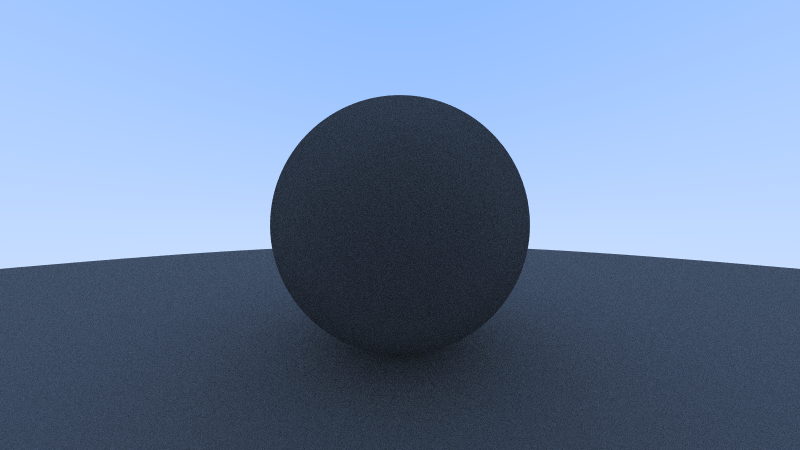
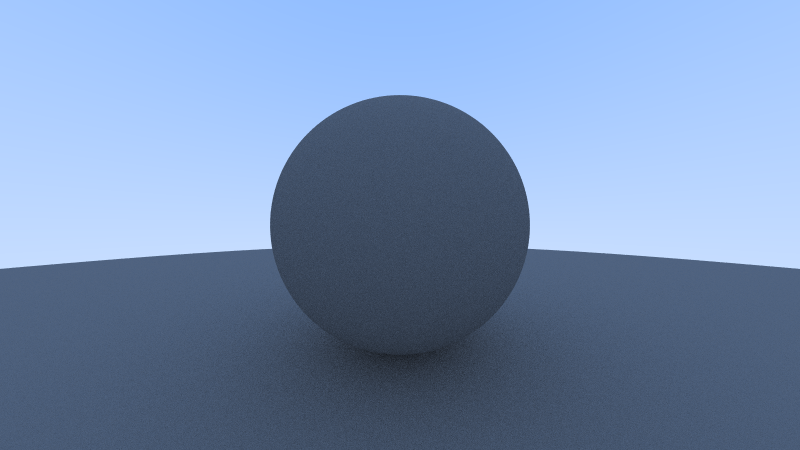
removing shadow acne

diff --git a/src/ray.rs b/src/ray.rs
@@ -62,10 +62,7 @@ impl Camera {
                 (0..self.image_width).into_par_iter().map(move |i| {
                     let color = (0..self.samples_pp)
                         .into_par_iter()
-                        .map(|_| {
-                            let r = self.get_ray(i, j);
-                            self.ray_color(&r, self.max_bounces, world)
-                        })
+                        .map(|_| self.get_ray(i, j).color(self.max_bounces, world))
                         .reduce(Color::default, |a, b| a + b);
 
                     (color * self.pixel_sample_scale).ppm_string()
@@ -87,22 +84,6 @@ impl Camera {
 
         Ray::new(self.center, sample - self.center)
     }
-
-    fn ray_color(&self, r: &Ray, depth: u8, world: &impl Hittable) -> Color {
-        if depth == 0 {
-            return Color::default();
-        }
-
-        if let Some(hit_record) = world.hits(r, Interval::new(0.0, f64::INFINITY)) {
-            let v = V3::random_on_hemisphere(&hit_record.normal);
-            return 0.5 * self.ray_color(&Ray::new(hit_record.p, v), depth - 1, world);
-        }
-
-        let unit_dir = r.dir.unit_vector();
-        let a = 0.5 * (unit_dir.y + 1.0);
-
-        (1.0 - a) * Color::new(1.0, 1.0, 1.0) + a * Color::new(0.5, 0.7, 1.0)
-    }
 }
 
 pub struct Ray {
@@ -117,5 +98,21 @@ impl Ray {
 
     pub fn at(&self, t: f64) -> Point3 {
         self.orig + t * self.dir
+    }
+
+    fn color(&self, depth: u8, world: &impl Hittable) -> Color {
+        if depth == 0 {
+            return Color::default();
+        }
+
+        if let Some(hit_record) = world.hits(self, Interval::new(0.001, f64::INFINITY)) {
+            let v = V3::random_on_hemisphere(&hit_record.normal);
+            return 0.5 * Ray::new(hit_record.p, v).color(depth - 1, world);
+        }
+
+        let unit_dir = self.dir.unit_vector();
+        let a = 0.5 * (unit_dir.y + 1.0);
+
+        (1.0 - a) * Color::new(1.0, 1.0, 1.0) + a * Color::new(0.5, 0.7, 1.0)
     }
 }
